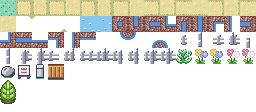
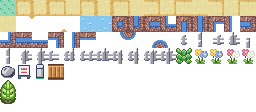
Safari art review fixes: reference head on trainer, diagonal ground, leafy tall grass
- Trainer keeps the reference boy's head (red cap, white front panel with
  badge, black hair, narrow face, 2px eyes, ears, shaded side); only the
  clothes are the HAFS uniform: white collar V, navy/gold striped tie,
  thin gold lapel lines down to gold buttons, gold cuffs and hem.
- Ground: fine diagonal dither streaks instead of scattered dots.
- Tall grass: rounded layered leaf clusters, less teal.

Claude-Session: https://claude.ai/code/session_01PyWJXhh4uoM1MhwTZs3jNF

Changed region(s): [[0.6875, 0.4286, 0.75, 0.5893], [0.0, 0.0, 0.0625, 0.1339]]

diff --git a/tools/build_safari_tiles.py b/tools/build_safari_tiles.py
@@ -32,7 +32,7 @@ def hx(s):
 C = {k: hx(v) for k, v in dict(
     g0='#8cd6b8', g1='#5cc49c', g2='#3aa874', gL='#b8ecd0',            # 풀밭
     s0='#e8dc9c', s1='#f4ecbc', s2='#d8c88c', sE='#d8b064', sK='#c09850',  # 모래
-    k='#426311', t='#38ae68', n='#68d0a0', L='#b0ecd0',                # 풀숲
+    k='#426311', t='#3c9c48', n='#5cbc6c', L='#a8e4a8',                # 풀숲
     T0='#5c9a2c', T1='#8cc850', T2='#b8e47c', T3='#d8f4a0', TK='#3c5a10', Tp='#6c5a62', TP='#8c7a80',  # 나무
     f0='#f8f8f8', f1='#c0c0c8', f2='#9c9ca4', f3='#5c6484', f4='#80809a',  # 울타리
     w0='#88c8f0', w1='#5c90d0', w2='#3c68b0', wL='#d0f0ff',            # 물
@@ -67,18 +67,17 @@ class Tile:
 # ─────────── 풀밭: 대각선 점무늬 (16px 반복) ───────────
 def ground():
     t = Tile(base='g0')
-    # 오른쪽 위 → 왼쪽 아래로 흐르는 점 줄 (3세대 풀밭처럼 촘촘하지 않게)
+    # 참고 그림처럼 왼쪽 위 → 오른쪽 아래로 가는 가는 대각선 줄 (진한 점 · 중간 점 · 빈칸 두 개 반복) + 듬성한 밝은 점
     for y in range(16):
         for x in range(16):
-            d = (x + y) % 8
-            if d == 0 and (y % 4 == 1):
-                t.px(x, y, 'g1')
-            elif d == 0 and (y % 4 == 3):
-                t.px(x, y, 'g2')
-            elif d == 4 and (y % 4 == 0):
+            if (x - y) % 8 == 0:
+                k = ((x + y) // 2) % 4
+                if k == 0:
+                    t.px(x, y, 'g2')
+                elif k == 1:
+                    t.px(x, y, 'g1')
+            elif (x - y) % 8 == 4 and (x + y) % 4 == 0:
                 t.px(x, y, 'gL')
-    for (x, y) in [(3, 6), (11, 14), (13, 3), (6, 11)]:
-        t.px(x, y, 'g2')
     return t
 
 
@@ -227,23 +226,23 @@ def fence(mask):
 
 
 # ─────────── 손으로 찍은 그림들 ───────────
-TALL = [  # 두 포기 (윗줄 · 아랫줄 엇갈림) — 진한 올리브 테두리, 청록 잎, 밝은 잎맥
-    '................',
-    '...kL..L.k......',
-    '..nLLk.kLLn..L..',
-    '..tnLLkLLnt.nLk.',
-    '...ktnLnntk.tnLk',
-    '..L.kttntk..ktnk',
-    '.nLk.kttk.kLn.kt',
-    '.tnLLkttkLLnt.k.',
-    '..ktnLkkLnttk...',
-    '...kttnkntk...L.',
-    '.k..kknkkk..knLk',
-    'kLn..kttk..kLnLk',
-    'knLLkttttkLLnLk.',
-    '.ktnLnttnLntnk..',
-    '..kkttkkkttkk...',
-    '....kk...kk.....',
+TALL = [  # 둥근 잎 네 장이 X 모양으로 겹친 포기 (진한 테두리 · 중간 초록 · 밝은 잎) — 이어 붙이면 빽빽한 풀숲
+    '.kk..........kk.',
+    'kLLk...kk...kLLk',
+    'knLnk.kLLk.knLnk',
+    'ktnnLkLnnLkLnntk',
+    '.kttnkntnnknttk.',
+    '..kktkttntktkk..',
+    '.kLLkktnnkkLLk..',
+    'kLnnLktkktLnnLk.',
+    'kntnnLkLLkLnntnk',
+    'ktttnkLnnLkntttk',
+    '.kkttktnntkttkk.',
+    '.kLkktttttkkLk..',
+    'kLnLkkkttkkLnLk.',
+    'kntnnLk..kLnntnk',
+    '.ktttk....ktttk.',
+    '..kkk......kkk..',
 ]
 TALL_PAL = {'k': 'k', 't': 't', 'n': 'n', 'L': 'L'}
 
@@ -386,92 +385,94 @@ def bridge():
 
 # ─────────── 주인공: HAFS 교복 (남색 재킷 + 금색 테두리) ───────────
 HP = {
-    'k': '#181820', 'N': '#3c4c8c', 'n': '#28325e', 'Y': '#f0c850', 'y': '#b88a28',
-    'h': '#4a3028', 'H': '#6e4a38', 's': '#f8d0a8', 'S': '#d89868',
+    'k': '#181820', 'R': '#e04838', 'r': '#a82830', 'O': '#f88860', 'D': '#701c24', 'Y': '#f0c850', 'y': '#b88a28',
+    'h': '#282838', 'H': '#444460', 's': '#f8d0a8', 'S': '#d89868', 'e': '#202028',
     'w': '#f8f8f8', 'W': '#c0c8d8', 'B': '#3a4672', 'b': '#262c4c', 'd': '#181c34',
-    'P': '#2c3658', 'p': '#1c2240', 'o': '#f0f0f0', 'O': '#9098a8', 'T': '#1c2448', 't': '#f0c850',
+    'P': '#2c3658', 'p': '#1c2240', 'o': '#f0f0f0', 'q': '#9098a8', 'T': '#1c2448', 't': '#f0c850',
 }
-DARK = {'B': 'b', 'N': 'n', 'P': 'p', 'Y': 'y', 's': 'S', 'b': 'd', 'o': 'O'}
+DARK = {'B': 'b', 'R': 'r', 'O': 'R', 'P': 'p', 'Y': 'y', 's': 'S', 'b': 'd', 'o': 'q'}
 
-FRONT_HALF = [  # 왼쪽 절반 7칸 → 거울 (오른쪽은 그늘색). 모자 0-4 · 얼굴 5-10 · 교복 11-15 · 다리 16-19
-    '....kkk',
-    '..kkNNN',
-    '.kNNNNN',
-    'kNNNNNY',
-    'kYYYYYY',
-    'khnnnnn',
-    'khsssss',
-    'khsskss',
-    'kSsskss',
-    '.kSssss',
-    '..kkSSS',
-    '.kBBYwT',
-    'kBBBBYt',
-    'kYBBBBY',
-    'ksBBBBB',
+# 머리는 참고 그림(3세대 남자아이)처럼: 빨간 모자 + 흰 앞판 + 배지, 검은 머리, 좁은 얼굴(테두리 안 8칸). 옷만 HAFS 교복.
+FRONT_HALF = [  # 왼쪽 절반 7칸 → 거울 (오른쪽은 그늘색). 모자 0-6 · 얼굴 7-11 · 교복 12-16 · 다리 17-19
+    '...kkkk',
+    '..kROOO',
+    '.kRROOO',
+    '.kRRRRR',
+    '.krRRRw',
+    'kkrrwwR',
+    'kDDDDDD',
+    '.khhhhh',
+    '.kShsss',
+    '..ksses',
+    '..ksses',
+    '...kSss',
+    'kBBBwwT',
+    'kBBYBwt',
+    'kYBBYBT',
+    'ksBBBYY',
     '.kyYYYY',
     '..kPPPk',
     '..kPPPk',
-    '..kPPPk',
-    '..kooOk',
+    '..kooqk',
 ]
 BACK_HALF = [
-    '....kkk',
-    '..kkNNN',
-    '.kNNNNN',
-    'kNNNNNN',
-    'kYYYYYY',
-    'khhhhhh',
-    'khHhhhh',
-    'khHHhhh',
-    'khhhhhh',
+    '...kkkk',
+    '..kROOO',
+    '.kRROOO',
+    '.kRRRRR',
+    '.krRRRR',
+    'kkrrrrr',
+    'kDhhhhh',
     '.khhhhh',
-    '..kkhhh',
-    '.kBBBBB',
+    '.khHhhh',
+    '..khhhh',
+    '..khhhh',
+    '...kkSS',
+    'kBBBBBB',
     'kBBBBBB',
     'kYBBBBB',
     'ksBBBBB',
     '.kyYYYY',
     '..kPPPk',
     '..kPPPk',
-    '..kPPPk',
-    '..kooOk',
+    '..kooqk',
 ]
 SIDE = [  # 왼쪽을 봄, 14칸
-    '.....kkkk.....',
-    '...kkNNNNk....',
-    '..kNNNNNNNk...',
-    '..kNNNNNNNnk..',
-    '..kYYYYYYYyk..',
-    'knnnnnhhhhhk..',
-    '.kksssshhhhk..',
-    '..kskssSHhhk..',
-    '..kskssShhk...',
-    '...kSssSSk....',
-    '....kkSSk.....',
-    '...kwYBBBk....',
-    '...kTYBBbk....',
-    '...kBBBBbk....',
-    '...kBYBBbk....',
-    '...kBsBbbk....',
-    '...kyYYYyk....',
-    '....kPPpk.....',
-    '....kPPpk.....',
-    '....kooOk.....',
+    '....kkkkk.....',
+    '...kROOOOk....',
+    '..kRROOOOrk...',
+    '..kwRRRRRrk...',
+    '..kwwRRRrrk...',
+    'kkDDDDDrrrrk..',
+    '...khhhhhhk...',
+    '...khsshhhk...',
+    '...ksessShk...',
+    '...ksessShk...',
+    '....ksssShk...',
+    '.....kSSk.....',
+    '....kwTYBk....',
+    '....ktYBbk....',
+    '....kBYBbk....',
+    '....kBBsbk....',
+    '....kyYYyk....',
+    '.....kPpk.....',
+    '.....kPpk.....',
+    '....kooqk.....',
 ]
-SIDE_STEP1 = SIDE[:17] + [
-    '...kPPkPpk....',
-    '..kPPk.kppk...',
-    '..kook..kOk...',
+SIDE_STEP1 = SIDE[:16] + [
+    '....kyYYyk....',
+    '....kPkkpk....',
+    '...kPk..kpk...',
+    '...kok..kqk...',
 ]
 SIDE_STEP2 = SIDE[:13] + [
-    '...kBBBBbk....',
-    '...kBBYBbk....',
-    '...kBBsbbk....',
-    '...kyYYYyk....',
-    '....kPPpk.....',
-    '....kPpk......',
-    '....kooOk.....',
+    '....kBYBbk....',
+    '....kBsBbk....',
+    '....kBBbbk....',
+    '....kyYYyk....',
+    '.....kPpk.....',
+    '.....kPk......',
+    '.....kook.....',
 ]
 
 
